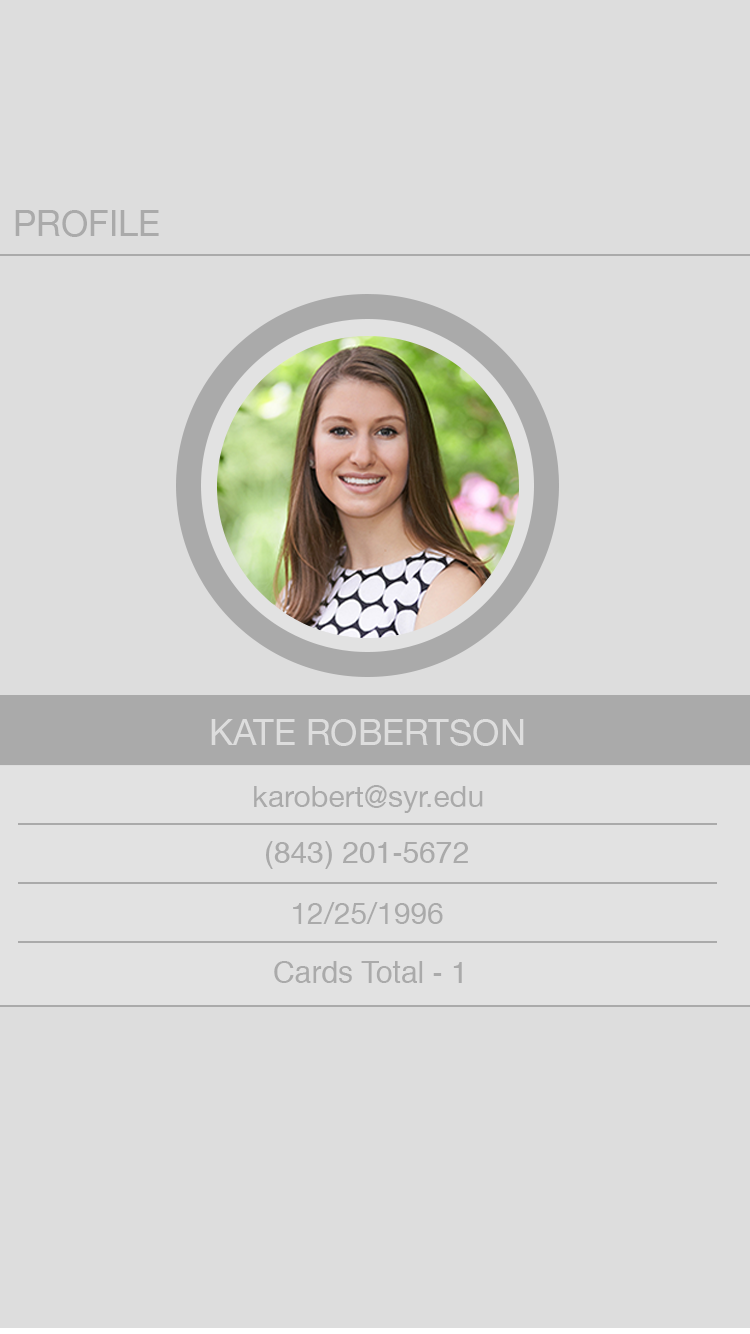
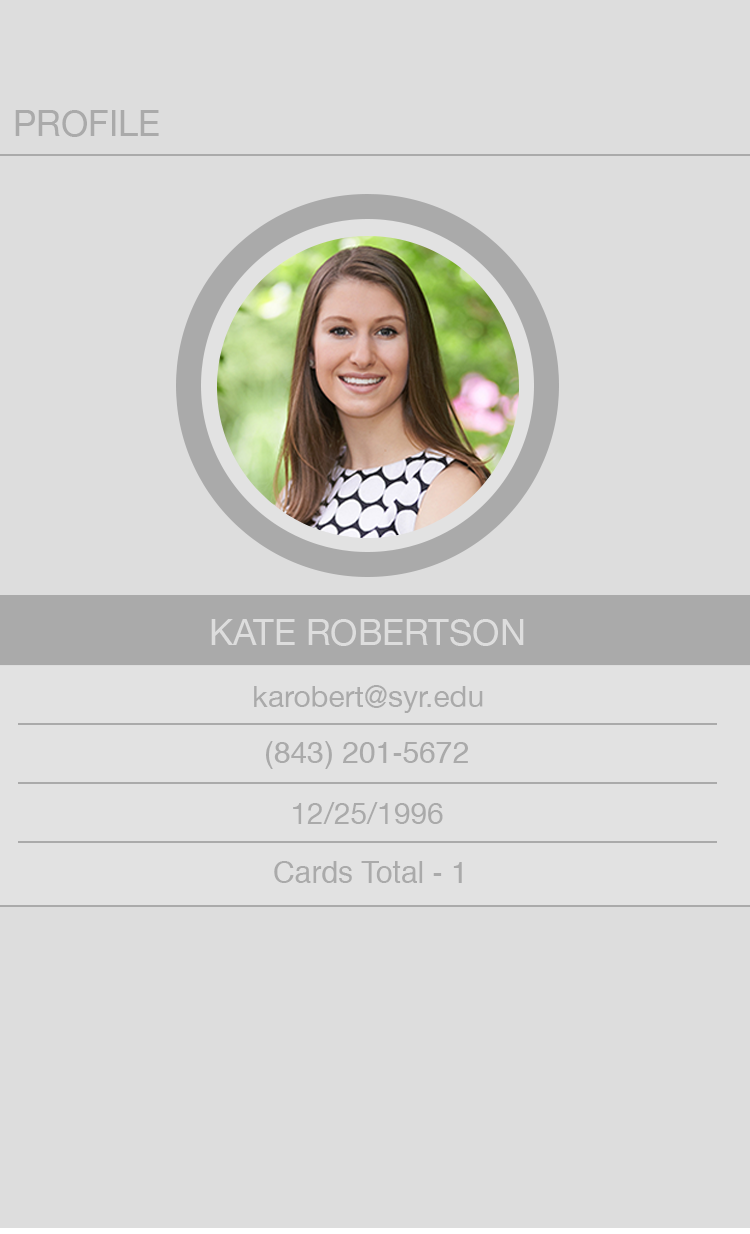
another one

Changed region(s): [[0.0, 0.154, 1.0, 0.7391], [0.0, 0.154, 0.2147, 0.1848], [0.0307, 0.0924, 0.2147, 0.1232]]

diff --git a/index.html b/index.html
@@ -110,7 +110,6 @@
                 <ul class="setBar">
                     <li id="my">My CARDs</li>
                     <li id="profile">My Profile</li>
-                    <li id="accounts">Linked Accounts</li>
                     <li id="set">Settings</li>
                     <li id="out">Log Out</li>
                 </ul>
@@ -122,14 +121,7 @@
                 <img src="images/dotsbutton_7fa8d7.png" class="dots">
          </div>
         <div class="pageContent">    
-            <img src="images/Katiepic.png" id="profPhoto">
-            <ul id="prof">My Profile:
-                <li>Name: Katie Roberston</li> 
-                <li>Email: karobert@syr.edu</li>
-                <li>Phone Number: 222-2222</li>
-                <li>DOB: 12/25/1996</li>
-                <li>Number of CARDs: 1</li>
-            </ul>
+            <img src="images/cardprofilewline.png" class="theContent">
             </div>    
         </div>   
         <div class="createPage hidden">  
@@ -226,7 +218,7 @@
                 <img src="images/dotsbutton_7fa8d7.png" class="dots">
             </div>
             <div class="accounts">
-            
+                <img src="images/cardsettings.png" class="theContent">
             </div>
             
         </div>           
@@ -236,6 +228,7 @@
                 <img src="images/CardlogoCAPS.png" class="mainLogo">
                 <img src="images/dotsbutton_7fa8d7.png" class="dots">
          </div>
+            <img src="images/cardsettings.png" class="theContent1">
         </div>    
   
     </div>   
@@ -272,7 +265,7 @@
         $(".loginButt").click(function login(){
                     $(".loginPage").fadeOut(700);
                     $(".signUpPage").fadeOut(700);
-                    $(".mainPage").fadeIn(1500);
+                    $(".mainPage").fadeIn(1000);
                 });
         
          $("#signUp").click(function(){
@@ -333,7 +326,7 @@
                 });
         
         $(".home").click(function(){
-                    $(".addressBook, .profilePage, .createPage").fadeOut(1);
+                    $(".addressBook, .profilePage, .createPage, .settingsPage").fadeOut(1);
                     $(".mainPage").fadeIn(1);
                     
                 });
@@ -358,23 +351,26 @@
                     });
         
          $("#out").click(function(){
-                    $(".mainPage, .addressBook").fadeOut(1000);
+                    $(".mainPage, .addressBook, .createPage, .settingsPage").fadeOut(1000);
              
                     $(".loginPage").fadeIn(2500)
                 
                 });  
         $("#profile").click(function(){
-            $(".mainPage").fadeOut(1);
-            $(".profilePage").removeClass("hidden");
+            $(".mainPage, .createPage, .addressBook, .settingsPage").fadeOut(1);
+            $(".profilePage").fadeIn(1);
             
         });
                  
             $("#plus").click(function(){
-                $(".mainPage").fadeOut("hidden");
+                $(".mainPage").fadeOut(1);
                 $(".createPage").fadeIn(1);
             }); 
         
-
+        $("#set").click(function(){
+            $(".mainPage, .createPage, .addressBook, .profilePage").fadeOut(1);
+            $(".settingsPage").fadeIn(1)
+        });
         
         var toggle = 0;
 $('.medImg').on('click', function(event) {

diff --git a/css/custom.css b/css/custom.css
@@ -539,3 +539,15 @@ label{
 .clicked{
     margin-left: 95px;
 }
+
+
+.theContent{
+    width: 640px;
+    position: absolute;
+    z-index: 1;
+}
+.theContent1{
+    width: 640px;
+    position: absolute;
+    margin-top: 85px;
+}
